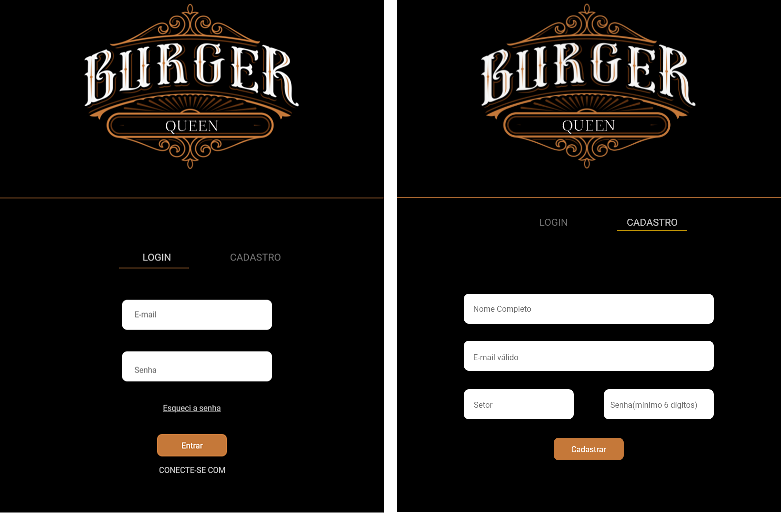
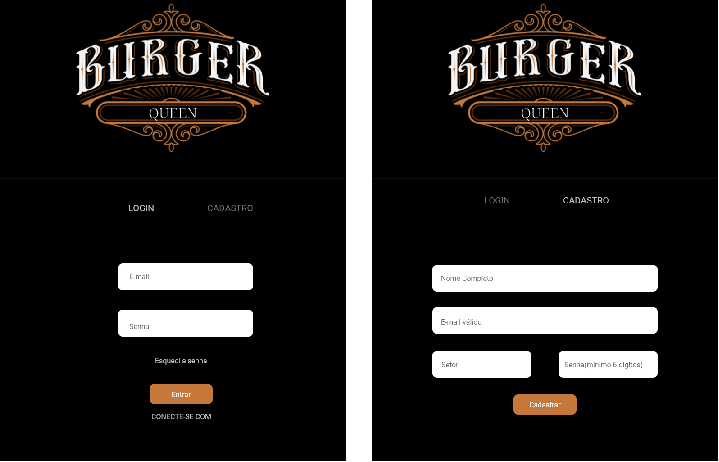
(master): Adiciona imagem do protótipo para o Readme

diff --git a/README.md b/README.md
@@ -50,7 +50,9 @@ Feedbacks:
 
 #### Reorganização do protótipo
 
-Sobre o design do segundo protótipo foram escolhodidos cores atrativas e inserido uma logomarca com design moderno.
+Sobre o design do segundo protótipo foram escolhididos cores atrativas e inserido uma logomarca com design moderno.
+
+![Protótipo](https://github.com/VivisGaspar/burger-queen/blob/master/public/images/prototipo_new.png?raw=true)
 
 ### 4. Definição do produto
 
